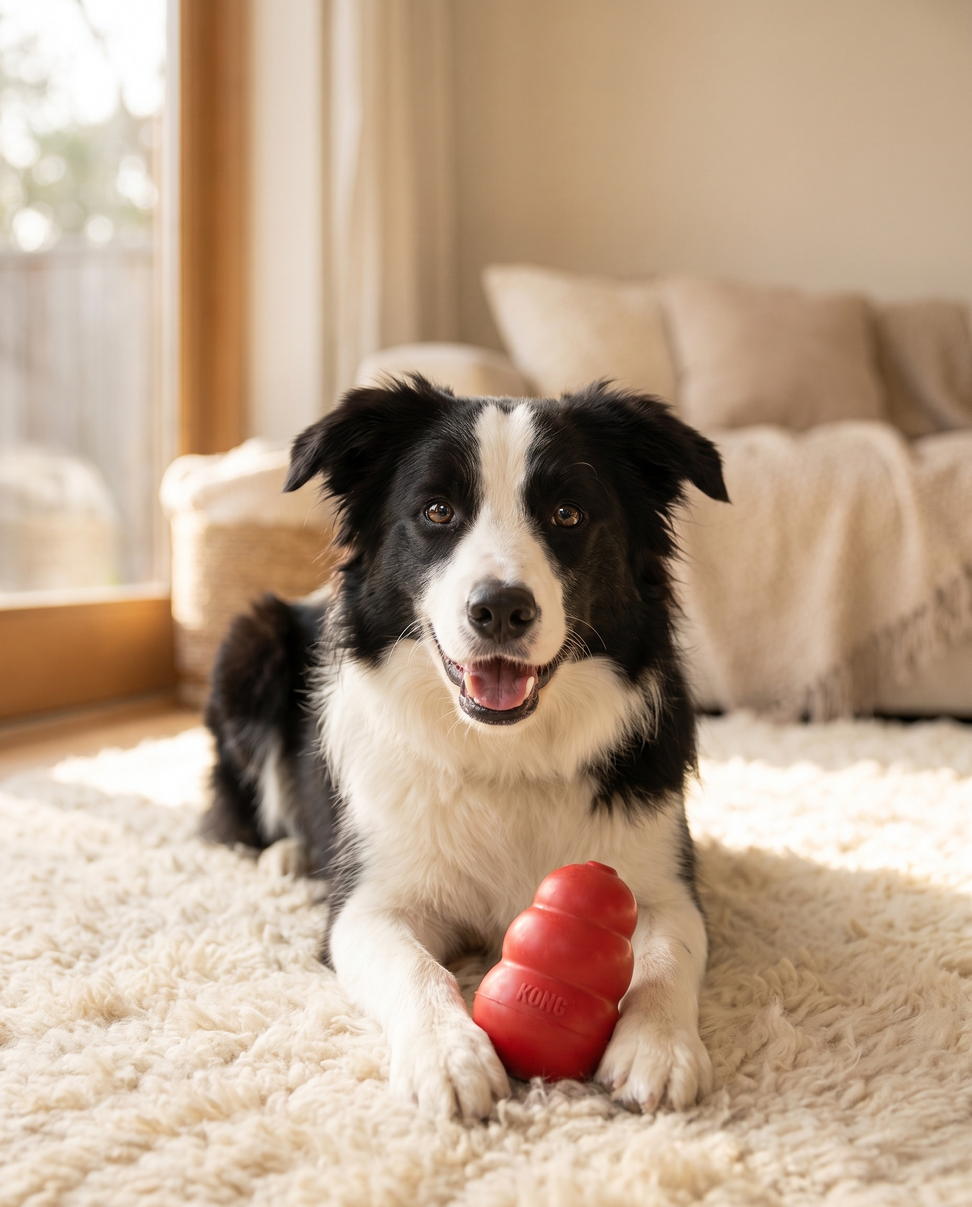
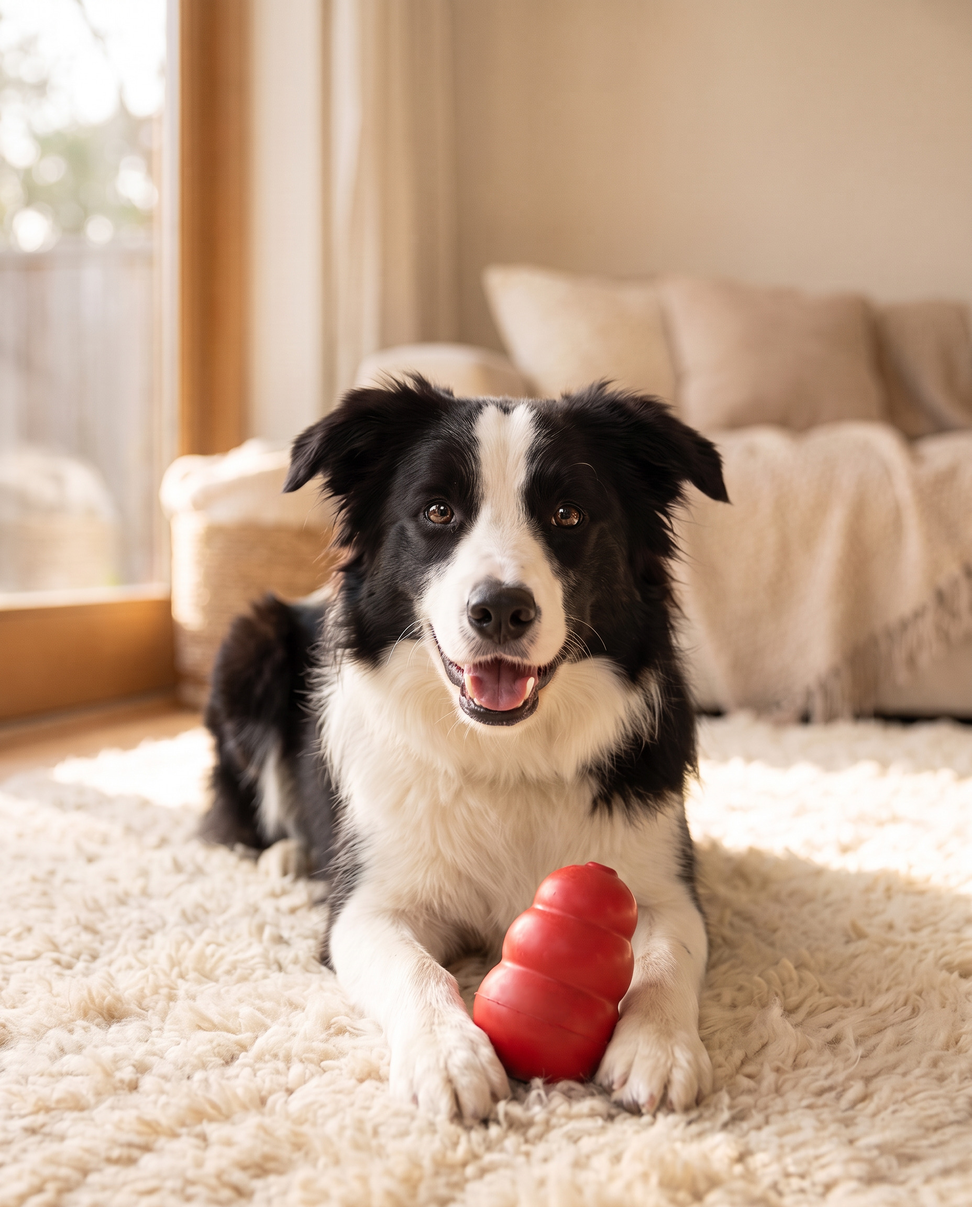
5 carruseles de producto con estilos editoriales, fotos reales y sin marcas a la vista
Juguete clásico de caucho, rascador torre, juguete palta, comedero lento
(reemplaza a Brit) y cama túnel: portada editorial de Higgsfield, ficha y
slide editorial con foto real de Unsplash. Se borraron logos de las fotos y
se suma la regla «sin marcas a la vista» a los lineamientos y al Studio.

Claude-Session: https://claude.ai/code/session_01UFgb9cPkwjsoNhDLqTBRZN

diff --git a/studio/functions/api/generate.ts b/studio/functions/api/generate.ts
@@ -13,6 +13,7 @@ const SYSTEM = `Sos el equipo de contenido de Ser Animal, una tienda especializa
 TONO
 - Cercano, claro y concreto, como hablaría alguien del local. Español rioplatense con voseo: «elegí», «buscá», «sumate», «contanos».
 - Mayúscula solo al principio de títulos. Sin exclamaciones de más ni frases vacías («¡¡Elevá la experiencia de tu mascota!!» está mal).
+- No nombres marcas de otras empresas en las slides: el producto se nombra por lo que es (por ejemplo «Juguete clásico de caucho»), aunque el usuario escriba la marca.
 - NUNCA se publican precios de productos, ni en las slides ni en el caption, aunque el usuario los mencione. Tampoco inventes descuentos, plazos, stock ni características. Los únicos montos permitidos son los de los textos fijos de abajo (envíos y pedido programado).
 - Datos de salud o comportamiento animal: solo los que sean ampliamente aceptados por veterinarios. Si no estás seguro de un dato, no lo uses. Nada de diagnósticos ni dosis; ante síntomas, «consultá a tu veterinario».
 

diff --git a/lineamientos/estilos-de-post.md b/lineamientos/estilos-de-post.md
@@ -7,7 +7,7 @@ Guía visual para que cada post y cada portada se vean parte del mismo feed. Las
 ## 1. Principios
 
 1. **Imágenes reales o que luzcan reales.** Fotos propias, de proveedor o generadas con IA (Higgsfield u otra) con aspecto fotográfico. Nada de ilustración ni 3D caricaturesco en las portadas.
-2. **El producto no se inventa.** Si la imagen es de IA, el producto tiene que ser idéntico al real: forma, color, logo y detalles. Siempre se parte de una foto real del producto como referencia.
+2. **El producto no se inventa.** Si la imagen es de IA, el producto tiene que ser idéntico al real en forma, color y detalles (sin los logos: ver punto 10). Siempre se parte de una foto real del producto como referencia.
 3. **Tres fondos posibles:** foto real, verde Ser Animal `#9ECA1B` o blanco (`#FFFFFF` / superficie `#F8FAF4`). Se van mezclando. No se usan otros colores de fondo, como naranja o amarillo.
 4. **Nunca se publican precios** de productos: ni en la imagen ni en el texto del posteo. Los únicos montos que aparecen son los de los textos fijos de envíos ($1.500 / $200) y del pedido programado (5%).
 5. **El feed es estético.** Las imágenes no llevan llamados a la venta: nada de «Pedilo por WhatsApp», teléfonos ni botones. Lo que se ve tiene que ser lindo; el WhatsApp va, si hace falta, en el texto del posteo.
@@ -15,6 +15,7 @@ Guía visual para que cada post y cada portada se vean parte del mismo feed. Las
 7. **El texto nunca tapa la cara del animal.**
 8. **Todo en HD y nítido.** Fotos de al menos 1080 px de lado (ideal 2000 o más), nunca agrandadas. Exportación a 1080×1350 desde el doble de tamaño (supermuestreo), JPG de alta calidad. Si una foto de la tienda viene chica o comprimida: enfoque suave (máscara de enfoque) o escalado con IA; si sigue borrosa, se busca otra.
 9. **Contenido de IA:** cuando la imagen es generada, se activa la etiqueta «Contenido de IA» de Instagram.
+10. **Sin marcas a la vista.** En las fotos no se ven logos ni textos de otras marcas (grabados, etiquetas, estampados): se borran con IA antes de usar la imagen. En los títulos y fichas el producto se nombra por lo que es («Juguete clásico de caucho»), no por la marca. Los productos que son pura marca, como las bolsas de alimento, no se usan en el feed.
 
 ---
 

diff --git a/marca/fotos/ia/README.md b/marca/fotos/ia/README.md
@@ -8,12 +8,15 @@ Hechas con GPT Image 2 en Higgsfield, siempre con la foto real del producto (`ma
 | `caniche-guia-floral.jpg` | Guía tradicional con pectoral (floral) | Portada o retrato |
 | `beagle-conjunto-negro.jpg` | Conjunto correa + pechera negro | Foto con panel / portada |
 
-| `portada-kong.jpg` | KONG Classic | Portada de producto (Nano Banana Pro) |
+| `portada-kong.jpg` | KONG Classic | Portada de producto (Nano Banana Pro, logo borrado) |
 | `portada-rascador.jpg` | Rascador torre 7 niveles | Portada de producto |
-| `portada-palta.jpg` | Juguete giratorio con catnip (palta) | Portada de producto |
-| `portada-brit.jpg` | Brit Premium by Nature Adulto S | Portada de producto |
-| `portada-tunel.jpg` | Cama Tunnel Tube para gato | Portada (tiene una franja clara arriba: recortar o regenerar) |
+| `portada-palta.jpg` | Juguete giratorio con catnip (palta) | Portada de producto (texto del juguete borrado) |
+| `portada-brit.jpg` | Brit Premium by Nature Adulto S | No usar: la bolsa muestra la marca |
+| `portada-comedero-lento.jpg` | Comedero lento para perros | Portada de producto (Nano Banana Pro) |
+| `portada-tunel.jpg` | Cama Tunnel Tube para gato | Portada de producto (regenerada, etiqueta borrada) |
 
 Desde ahora las imágenes se generan con Nano Banana Pro (o Higgsfield Soul para escenas sin producto), no con GPT Image.
 
 Descartada: la del labrador con pechera de tracción (salió sin correa).
+
+Regla: en las fotos no se ven marcas. Si el producto tiene logo o texto impreso, se borra con Nano Banana Pro antes de usarla.

diff --git a/posts/2026-11-juguete-palta/texto.md b/posts/2026-11-juguete-palta/texto.md
@@ -1,0 +1,26 @@
+# Juguete palta con catnip
+
+**Pilar:** En la tienda. **Formato:** carrusel de 3 slides, 1080×1350.
+1. Portada con título editorial abajo (estilo 15): «Una palta *para tu gato*» + «Con bola de catnip natural». Imagen de Higgsfield (Nano Banana Pro) con la foto real como referencia; se borró el texto impreso del juguete.
+2. Ficha de producto (estilo 18), sin texto de marca en la foto.
+3. Título editorial arriba sobre foto real (estilo 14), etiqueta «¿Sabías que…?»: «El catnip *no le hace efecto* a todos los gatos». Foto: Mikhail Volkov (Unsplash).
+
+**Producto:** Juguete giratorio con catnip en forma de palta (seranimal.com.uy). Datos de la web: bola de catnip natural que gira 360°; se pega en superficies lisas; bola reemplazable (tapa desmontable); desde los 3 meses. Sin precio.
+
+## Texto del posteo
+
+Una palta que no es para la ensalada 🥑
+
+Tiene una bola de catnip natural que gira 360° y se pega en cualquier superficie lisa: una puerta, un mueble, un azulejo. Cuando se gasta, la bola se cambia.
+
+Dato: el catnip no le hace efecto a todos los gatos. ¿Al tuyo sí? Contanos.
+
+Envío gratis a todo el país desde $1.500. En compras menores, $200.
+Pedidos y envíos por WhatsApp: 091 380 000.
+
+#seranimal #catnip #juguetesparagatos #gatos #uruguay
+
+## Antes de publicar
+
+- Activar «Contenido de IA» (portada generada).
+- El dato del catnip es conocido (no a todos los gatos les afecta); si se quiere un número, confirmarlo con una fuente antes.

diff --git a/posts/2026-11-comedero-lento/texto.md b/posts/2026-11-comedero-lento/texto.md
@@ -1,0 +1,24 @@
+# Comedero lento
+
+**Pilar:** En la tienda. Reemplaza al alimento Brit Premium: la bolsa es toda marca y no se puede mostrar sin que se vea. **Formato:** carrusel de 3 slides, 1080×1350.
+1. Portada con foto y panel verde (estilo 10), etiqueta «En la tienda»: «¿Tu perro come muy rápido?». Imagen de Higgsfield (Nano Banana Pro) con las fotos reales del comedero como referencia.
+2. Ficha de producto (estilo 18). Foto de estudio generada a partir de la foto real del comedero.
+3. Título editorial arriba sobre foto real (estilo 14), etiqueta «Cuidalo mejor»: «Comer más despacio *también es cuidarlo*». Foto: Gayatri Malhotra (Unsplash).
+
+**Producto:** Comedero lento para perros (seranimal.com.uy). Datos de la web: ayuda a comer más lento; las ranuras lo entretienen; al lamer, raspa dientes y lengua y ayuda al cuidado bucal. Sin precio.
+
+## Texto del posteo
+
+¿Tu perro termina la comida en segundos? 🐶
+
+El comedero lento tiene relieve de huellas: así come más despacio y se entretiene mientras come. Además, al lamer las ranuras se limpia los dientes y la lengua.
+
+Envío gratis a todo el país desde $1.500. En compras menores, $200.
+Pedidos y envíos por WhatsApp: 091 380 000.
+
+#seranimal #comederolento #perros #mascotas #uruguay
+
+## Antes de publicar
+
+- Activar «Contenido de IA» (portada y foto de la ficha generadas).
+- Confirmar color y stock.

diff --git a/posts/2026-11-juguete-clasico-caucho/texto.md b/posts/2026-11-juguete-clasico-caucho/texto.md
@@ -1,0 +1,26 @@
+# Juguete clásico de caucho
+
+**Pilar:** En la tienda. **Formato:** carrusel de 3 slides, 1080×1350.
+1. Portada con título editorial arriba (estilo 14) y etiqueta «En la tienda»: «El clásico que *nunca falla*». Imagen de Higgsfield (Nano Banana Pro) con la foto real del juguete como referencia; se borró el logo grabado del juguete.
+2. Ficha de producto (estilo 18).
+3. Cita sobre foto real (estilo 16): «Morder es parte de ser perro. Mejor que sea algo suyo.» Foto: Ben Griffiths (Unsplash).
+
+**Producto:** KONG Classic (seranimal.com.uy). Datos de la web: modelo de referencia hace más de 40 años, caucho natural que rebota, para perros que muerden; talles S, M, L, XL y XXL. Sin precio. **Sin marcas a la vista:** ni en las imágenes ni en el texto.
+
+## Texto del posteo
+
+El juguete de caucho que no falta en ninguna casa con perro 🐶
+
+Caucho natural, resistente y con rebote: ideal para los que muerden todo. Hay talles del S al XXL.
+
+¿Cuál es el juguete favorito del tuyo?
+
+Envío gratis a todo el país desde $1.500. En compras menores, $200.
+Pedidos y envíos por WhatsApp: 091 380 000.
+
+#seranimal #juguetesparaperros #perros #mascotas #uruguay
+
+## Antes de publicar
+
+- Activar «Contenido de IA» (portada generada).
+- Confirmar talles en stock.

diff --git a/posts/2026-11-cama-tunel/texto.md b/posts/2026-11-cama-tunel/texto.md
@@ -1,0 +1,24 @@
+# Cama Tunnel Tube
+
+**Pilar:** En la tienda. **Formato:** carrusel de 3 slides, 1080×1350.
+1. Portada con foto enmarcada sobre verde (estilo 12), etiqueta «En la tienda»: «Para esconderse, jugar y dormir». Imagen de Higgsfield (Nano Banana Pro) con la foto real como referencia; se borró la etiqueta de la tela.
+2. Ficha de producto (estilo 18) con los tres colores, sin etiquetas de marca.
+3. Título editorial abajo sobre foto real (estilo 15), etiqueta «¿Sabías que…?»: «Un rincón para esconderse *le da tranquilidad*». Foto: Elena Kloppenburg (Unsplash).
+
+**Producto:** Cama Tunnel Tube para gatos (seranimal.com.uy). Datos de la web: túnel para explorar y cama para descansar; 85 × 55 cm; colores crema, gris y marrón; material suave y resistente; se dobla para guardar. Sin precio.
+
+## Texto del posteo
+
+Túnel para jugar, escondite y cama, todo en uno 🐱
+
+Es suave, resistente y se dobla para guardar. Mide 85 × 55 cm y viene en crema, gris y marrón.
+
+Envío gratis a todo el país desde $1.500. En compras menores, $200.
+Pedidos y envíos por WhatsApp: 091 380 000.
+
+#seranimal #camaparagatos #gatos #mascotas #uruguay
+
+## Antes de publicar
+
+- Activar «Contenido de IA» (portada generada).
+- Confirmar colores en stock.

diff --git a/posts/2026-11-rascador-torre/texto.md b/posts/2026-11-rascador-torre/texto.md
@@ -1,0 +1,24 @@
+# Rascador torre 7 niveles
+
+**Pilar:** En la tienda. **Formato:** carrusel de 3 slides, 1080×1350.
+1. Portada con pregunta en globos (estilo 9) y el gatito asomando: «Para trepar, jugar y descansar en altura». Imagen de Higgsfield (Nano Banana Pro) con la foto real del rascador como referencia.
+2. Ficha de producto (estilo 18).
+3. Título editorial abajo sobre foto real (estilo 15), etiqueta «¿Sabías que…?»: «A los gatos les gusta mirar todo *desde arriba*». Foto: Madalyn Cox (Unsplash).
+
+**Producto:** Rascador torre 7 niveles (seranimal.com.uy). Datos de la web: para trepar, jugar y descansar en altura; 7 niveles con miradores, cápsulas transparentes y casita; madera resistente; 50 × 60 × 147 cm. Sin precio.
+
+## Texto del posteo
+
+Si tu gato vive buscando el lugar más alto de la casa, esto es para él 🐱
+
+Rascador torre de 7 niveles: miradores, cápsulas transparentes y casita para esconderse. De madera resistente, mide 50 × 60 × 147 cm.
+
+Envío gratis a todo el país desde $1.500. En compras menores, $200.
+Pedidos y envíos por WhatsApp: 091 380 000.
+
+#seranimal #rascador #gatos #mascotas #uruguay
+
+## Antes de publicar
+
+- Activar «Contenido de IA» (portada generada).
+- Confirmar stock.

diff --git a/planificacion/2026-11-propuesta-4-posts.md b/planificacion/2026-11-propuesta-4-posts.md
@@ -2,6 +2,8 @@
 
 > **Hecho (octubre):** el 1 (calor) está en `posts/2026-11-calor-y-paseos/`, el 3 (nariz) en `posts/2026-11-nariz-de-tu-perro/` y el primer producto nuevo es la Cama Cuddlar (`posts/2026-11-cama-cuddlar/`). Para el otro producto hay portadas listas en `marca/fotos/ia/` (KONG Classic, rascador torre, juguete palta, Brit Premium, cama túnel).
 >
+> **Hecho (octubre, 2.ª tanda):** cinco carruseles de producto más, de 3 slides cada uno (portada editorial de Higgsfield + ficha + slide editorial con foto real de Unsplash): `posts/2026-11-juguete-clasico-caucho/`, `posts/2026-11-rascador-torre/`, `posts/2026-11-juguete-palta/`, `posts/2026-11-comedero-lento/` (reemplaza a Brit, porque la bolsa es toda marca) y `posts/2026-11-cama-tunel/`. Sin marcas a la vista.
+>
 > **Actualización:** los carruseles de producto (2 y 4) se cambian por **productos nuevos** que todavía no salieron en el feed. Los de collar WAUDOG y DUCK quedan descartados hasta definir los nuevos. Los consejos (1 y 3) siguen en pie.
 
 Dos carruseles de producto y dos de consejos. Todos siguen `lineamientos/estilos-de-post.md`: la slide 1 es imagen real o realista, después se pasa a verde o blanco, con Nunito + DM Sans. Los cuatro pueden tener versión animada.

diff --git a/CLAUDE.md b/CLAUDE.md
@@ -44,6 +44,7 @@ Seguir siempre `lineamientos/estilos-de-post.md`. Resumen:
 - Mayúscula solo al principio de títulos y botones.
 - Decir qué es, para quién es y cómo llega.
 - **Nunca se publican precios** de productos en redes (ni en la imagen ni en el posteo). Los únicos montos permitidos son los de los textos fijos de envíos y pedido programado.
+- **Sin marcas a la vista:** ni logos ni textos de otras marcas en las fotos (se borran con IA) y, en títulos y fichas, el producto se nombra por lo que es, no por la marca. Bolsas de alimento y productos que son pura marca no van al feed.
 - **El feed es estético:** las imágenes no llevan «Pedilo por WhatsApp», teléfonos ni llamados a la venta. El WhatsApp va, si hace falta, solo en el texto del posteo.
 - No inventar descuentos, plazos ni datos. Sin exclamaciones de más ni frases vacías.
 
